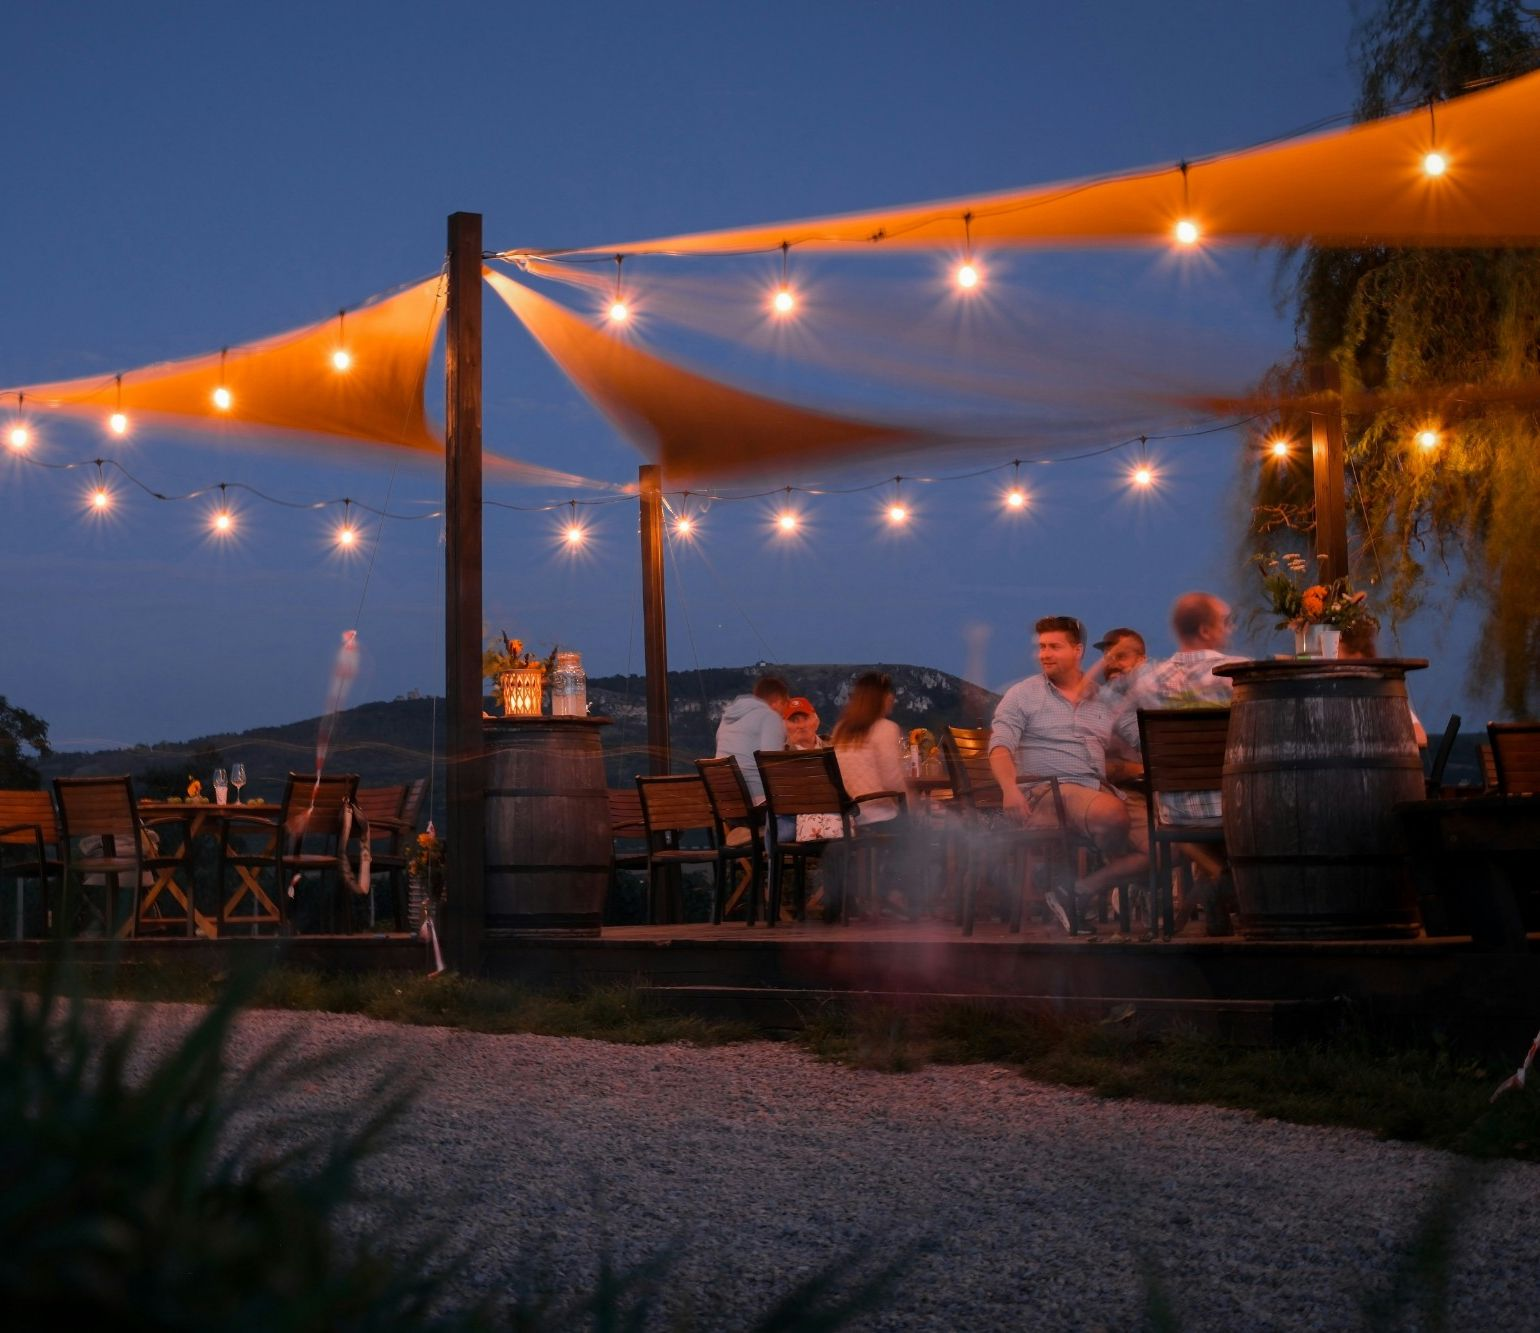
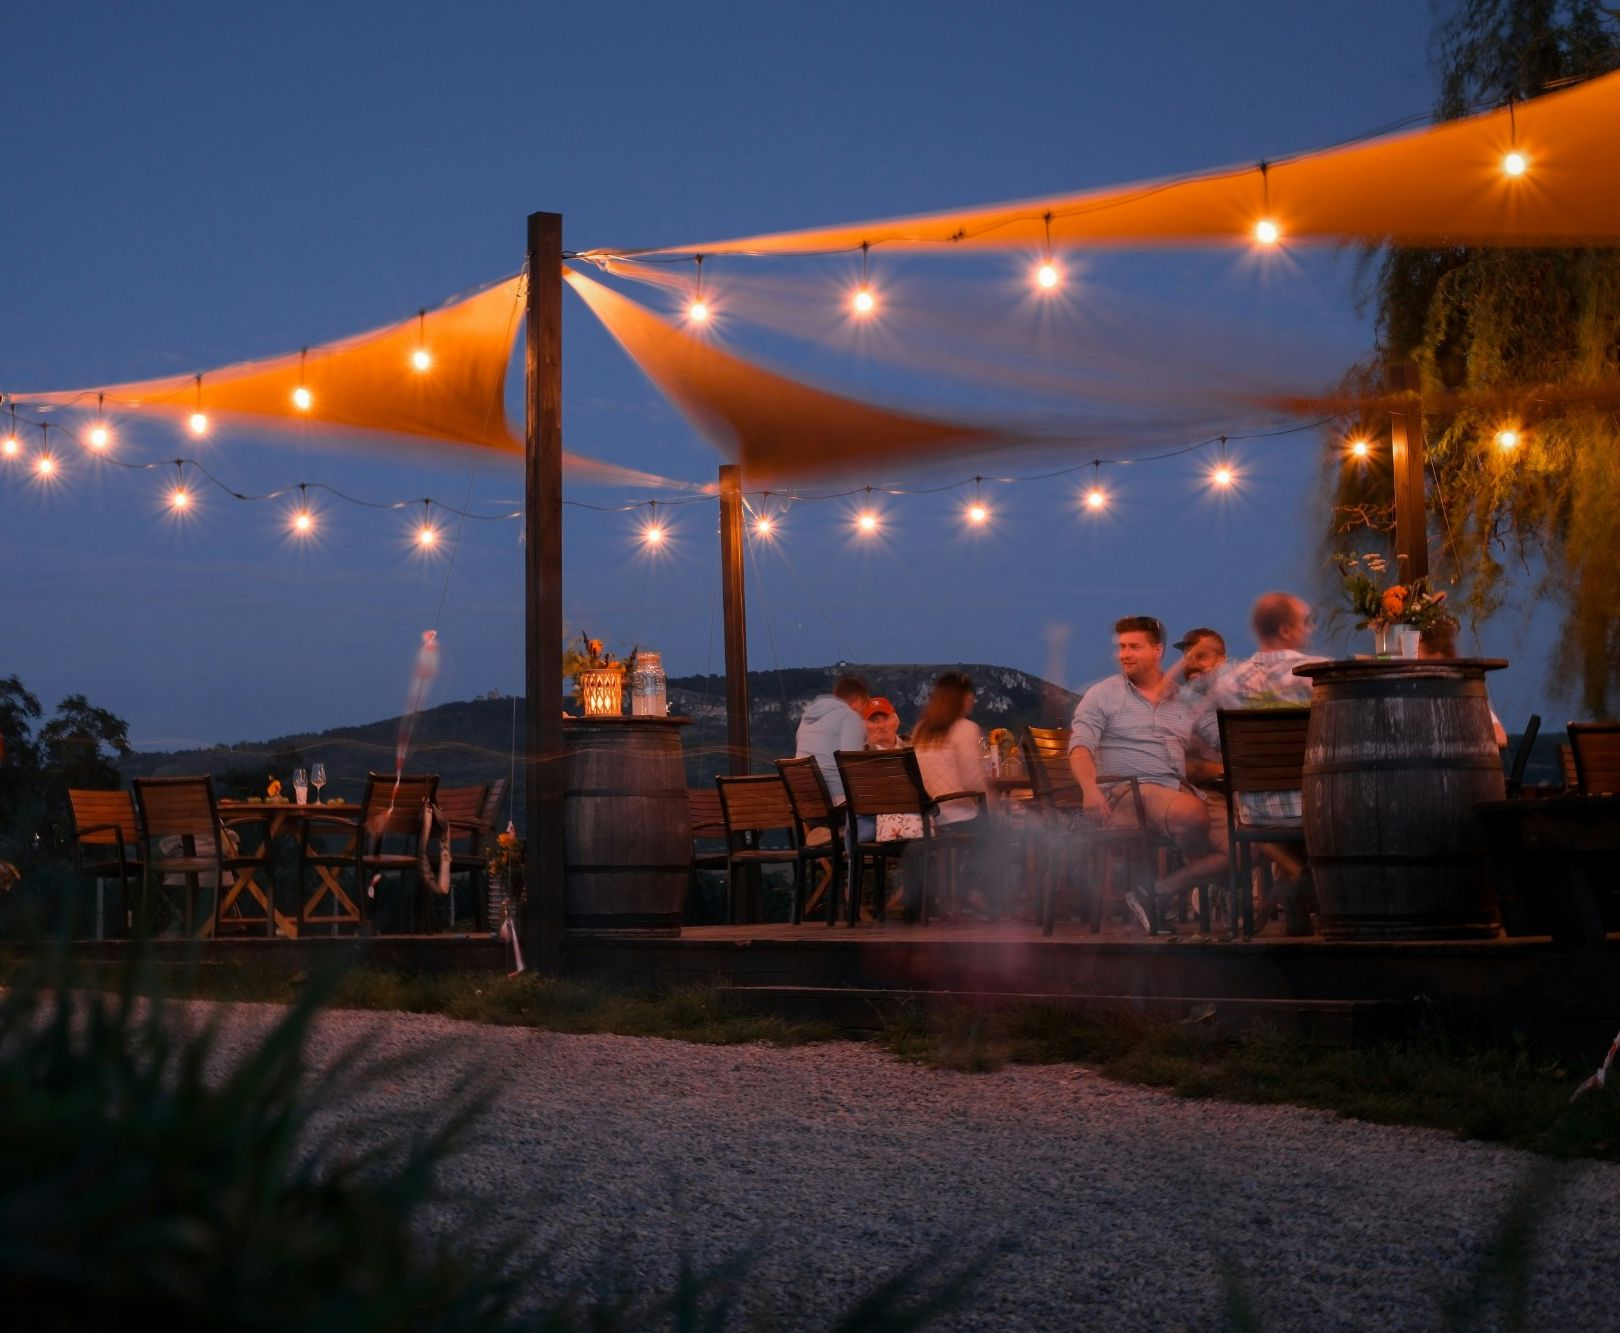
Eventi: hero ancorata su vela e luci, non sul gruppo seduto
Diagnosi precedente sbagliata: non era un ingrandimento (verificato
scaricando l'immagine così come la serve l'ottimizzatore - resta alla sua
risoluzione reale, 1620x1333, mai oltre). Il gruppo seduto a destra è
morbido già nello scatto originale del cliente, a piena risoluzione.

Con un hero così bassa (265-382px) si vede solo una fetta sottile
dell'immagine, e centrata cadeva proprio lì. Spostato l'ancoraggio verso
l'alto (object-[center_18%]) per tenere la fetta sulla vela e le luci,
sempre nitide - le persone restano solo accennate sul bordo.

Claude-Session: https://claude.ai/code/session_012csStmDVtPy6TUJruk1Jmr

diff --git a/src/lib/eventi.ts b/src/lib/eventi.ts
@@ -7,15 +7,22 @@ import { getSupabaseServer } from "@/lib/supabase/server";
  * tavoli — coerente con "Serate piccole, i produttori seduti al tavolo con
  * te". Non più un segnaposto Unsplash.
  *
- * Ritagliata rispetto all'originale (2000×1333 → 1540×1333): lo scatto del
- * cliente aveva persone in movimento sfocate sul lato sinistro — mosso da
- * tempo di posa lungo, non un problema di risoluzione, quindi non
- * correggibile via codice — tolte tagliando quella porzione, non ridisegnate.
+ * Ritagliata rispetto all'originale (2000×1333 → 1620×1333): lo scatto del
+ * cliente aveva una persona in movimento sfocata sul margine sinistro —
+ * mosso da tempo di posa lungo, non un problema di risoluzione, quindi non
+ * correggibile via codice — tolta tagliando quella porzione, non ridisegnata.
  *
- * TODO FOTO — sotto il deviceSize più grande che l'hero (fill,
+ * Il gruppo seduto a destra resta morbido anche a piena risoluzione (fuoco
+ * dello scatto originale): non è ingrandimento, verificato scaricando
+ * l'immagine così come la serve l'ottimizzatore. Compensato in pagina con
+ * `object-position` per tenere la fetta visibile dell'hero sulla vela e le
+ * luci, sempre nitide.
+ *
+ * TODO FOTO — 1620×1333: sotto il deviceSize più grande che l'hero (fill,
  * sizes="100vw") può arrivare a chiedere su schermi ad alta densità (3840px
- * di default). Da sostituire con l'originale a risoluzione ancora più alta
- * se disponibile.
+ * di default), ma l'ottimizzatore di Next non ingrandisce oltre la
+ * risoluzione reale del file — al più lo serve alla sua dimensione nativa.
+ * Da sostituire con l'originale a risoluzione più alta se disponibile.
  */
 export const eventiHeroImage: Immagine = {
   src: "/hero-eventi-degustazione.jpg",

diff --git a/src/app/(sito)/eventi/page.tsx b/src/app/(sito)/eventi/page.tsx
@@ -125,6 +125,16 @@ export default async function EventiPage() {
     <>
       <section className="relative isolate overflow-hidden">
         <div className="relative h-[265px] w-full sm:h-[382px]">
+          {/* object-[center_18%]: l'hero è bassa (265-382px) contro una foto
+              molto più alta, quindi a schermo largo si vede solo una fetta
+              sottile dell'immagine (circa un quarto dell'altezza). Con
+              l'ancoraggio al centro quella fetta cadeva proprio sul gruppo
+              seduto a destra, morbido anche nello scatto originale del
+              cliente (fuoco/tempo di posa, non un problema di rendering: già
+              verificato sulla foto alla sua risoluzione reale, senza alcun
+              ingrandimento). Spostato in alto: la fetta visibile ora è quasi
+              tutta vela e luci, sempre nitide, con le persone solo accennate
+              sul bordo inferiore. */}
           <Image
             src={eventiHeroFoto}
             alt={eventiHeroImage.alt}
@@ -132,7 +142,7 @@ export default async function EventiPage() {
             priority
             placeholder="blur"
             sizes="100vw"
-            className="object-cover"
+            className="object-cover object-[center_18%]"
           />
           <div
             aria-hidden="true"
